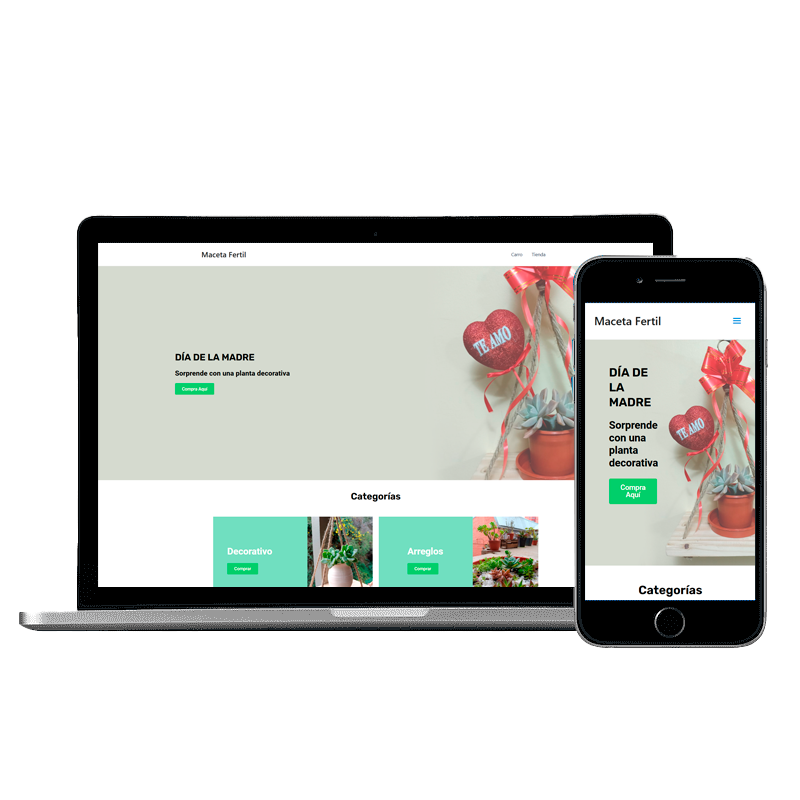
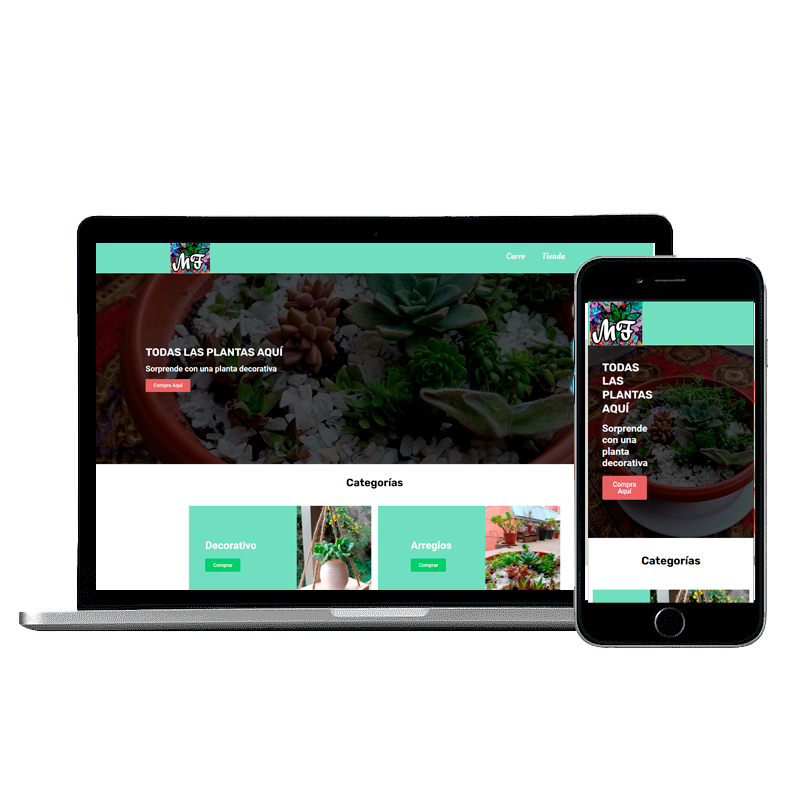
Cambio en proyectos

Changed region(s): [[0.0938, 0.2812, 0.9688, 0.7812]]

diff --git a/src/Projects.js b/src/Projects.js
@@ -1,6 +1,18 @@
 import React from 'react';
 import './Projects.css';
-import macetafertil1 from './macetafertil.png';
+
+import { FontAwesomeIcon } from '@fortawesome/react-fontawesome';
+import {
+  faWordpress,
+  faHtml5,
+  faCss3,
+  faBootstrap,
+  faElementor,
+  faOpencart,
+  faPhp,
+  faReact,
+  faJs
+} from '@fortawesome/free-brands-svg-icons';
 
 const Projects = ({ projects }) => {
   const handleProjectClick = (link) => {
@@ -19,9 +31,19 @@ const Projects = ({ projects }) => {
               onClick={() => handleProjectClick(project.link)}
             >
               <div className="project-content">
-                <img src={macetafertil1} alt={project.title} />
-                <h3>{project.title}</h3>
+                <img src={project.image} alt={project.title} />
+                <h4>{project.title}</h4>
                 <p>{project.description}</p>
+                <div className="technologies">
+                  {project.technologies.map((technology) => (
+                    <div className="technology" key={technology.name}>
+                      <div className="technology-icon">
+                        {getTechnologyIcon(technology.name)}
+                      </div>
+                      <span>{technology.name}</span>
+                    </div>
+                  ))}
+                </div>
               </div>
             </div>
           ))}
@@ -29,6 +51,31 @@ const Projects = ({ projects }) => {
       </div>
     </section>
   );
+};
+
+const getTechnologyIcon = (technologyName) => {
+  switch (technologyName) {
+    case 'WordPress':
+      return <FontAwesomeIcon icon={faWordpress} />;
+    case 'HTML':
+      return <FontAwesomeIcon icon={faHtml5} />;
+    case 'CSS':
+      return <FontAwesomeIcon icon={faCss3} />;
+    case 'Bootstrap':
+      return <FontAwesomeIcon icon={faBootstrap} />;
+    case 'Elementor':
+      return <FontAwesomeIcon icon={faElementor} />;
+    case 'WooCommerce':
+      return <FontAwesomeIcon icon={faOpencart} />;
+    case 'PHP':
+      return <FontAwesomeIcon icon={faPhp} />;
+    case 'React':
+      return <FontAwesomeIcon icon={faReact} />;
+    case 'Javascript':
+      return <FontAwesomeIcon icon={faJs} />;
+    default:
+      return null;
+  }
 };
 
 export default Projects;

diff --git a/src/Projects.css b/src/Projects.css
@@ -43,15 +43,17 @@ p {
 }
 
 .project {
-  border: 1px solid rgb(32, 32, 32);
+  border: 1px solid rgb(255, 255, 255);
   padding: 0px;
   text-align: center;
   cursor: pointer;
   transition: background-color 0.3s ease;
+  position: relative;
 }
 
 .project:hover {
   background-color: #2c9398;
+  z-index: 75;
 }
 
 .project-content {
@@ -59,7 +61,7 @@ p {
   flex-direction: column;
   align-items: center;
   justify-content: center;
-  padding: 20px;
+  padding: 20px 150px 20px 20px;
 }
 
 .project img {
@@ -71,4 +73,54 @@ p {
 
 .project:hover img {
   transform: scale(1.1);
+}
+
+.technologies {
+  position: absolute;
+  top: 0;
+  right: 0; /* Ajusta la distancia del borde lateral */
+  background-color: #2db0b7;
+  display: flex;
+  flex-direction: column;
+  align-items: center;
+  justify-content: center;
+  height: 100%;
+  padding: 0px;
+  transition: right 0.3s ease; /* Agrega una transición para suavizar el movimiento */
+  border: 1px solid rgb(255, 255, 255);
+}
+
+.project:hover .technologies {
+  right: -30px; /* Mueve las tecnologías hacia adentro al hacer hover */
+}
+
+.technology {
+  display: flex;
+  align-items: center;
+  margin-bottom: 0px; /* Ajusta el espacio entre las tecnologías */
+  transition: background-color 0.3s ease; /* Agrega una transición para el efecto hover */
+  width: 100%;
+  padding: 10px;
+}
+
+.technology:hover {
+  background-color: #005c61; /* Cambia el color de fondo al hacer hover */
+}
+
+.technology-icon {
+  display: flex;
+  align-items: center;
+  justify-content: center;
+  width: 20px;
+  height: 20px;
+  border-radius: 50%;
+  color: #ffffff;
+  font-size: 20px;
+  margin-right: 10px;
+  transition: background-color 0.3s ease; /* Agrega una transición para el efecto hover */
+}
+
+.technology:hover .technology-icon {
+  background-color: #2db0b7; /* Cambia el color de fondo del ícono al hacer hover */
+  color: #fff; /* Cambia el color del ícono al hacer hover */
 }

diff --git a/src/App.js b/src/App.js
@@ -1,6 +1,10 @@
+import React from 'react';
 import logo from './logo.svg';
 import 'bootstrap/dist/css/bootstrap.min.css';
 import './App.css';
+
+import macetafertilImage from './macetafertil.png';
+import lucasbravopyImage from './lucasbravopy.png';
 
 import Navbar from './Navbar';
 import SectionOne from './SectionOne';
@@ -12,13 +16,37 @@ function App() {
   const projects = [
     {
       id: 1,
-      image: 'macetafertil1.png',
+      image: macetafertilImage,
       title: 'Maceta Fertil',
       description: 'Ecommerce Jardinería',
-      link: 'http://macetafertil.lucasbravopy.cl'
+      link: 'http://macetafertil.lucasbravopy.cl',
+      technologies: [
+        { name: 'PHP', icon: 'PHP' },
+        { name: 'WordPress', icon: 'WP' },
+        { name: 'HTML', icon: 'HTML' },
+        { name: 'CSS', icon: 'CSS' },
+        { name: 'Bootstrap', icon: 'Bootstrap' },
+        //{ name: 'WooCommerce', icon: 'WC' },
+        { name: 'Elementor', icon: 'Elementor' },
+      ]
+    },
+    {
+      id: 2,
+      image: lucasbravopyImage,
+      title: 'LucasBravoPy.cl',
+      description: 'Portafolio Digital',
+      link: 'http://lucasbravopy.cl',
+      technologies: [
+        { name: 'React', icon: 'React' },
+        { name: 'Javascript', icon: 'Javascript' },
+        { name: 'HTML', icon: 'HTML' },
+        { name: 'CSS', icon: 'CSS' },
+        { name: 'Bootstrap', icon: 'Bootstrap' },
+      ]
     },
     // Agrega más proyectos aquí...
   ];
+  
   return (
     <div>
       <Navbar />

diff --git a/src/Navbar.css b/src/Navbar.css
@@ -7,6 +7,7 @@
     width: 100%;
     height: 50px;
     padding: 10px;
+    z-index: 100;
   }
 
   .navbarIcon > img{
